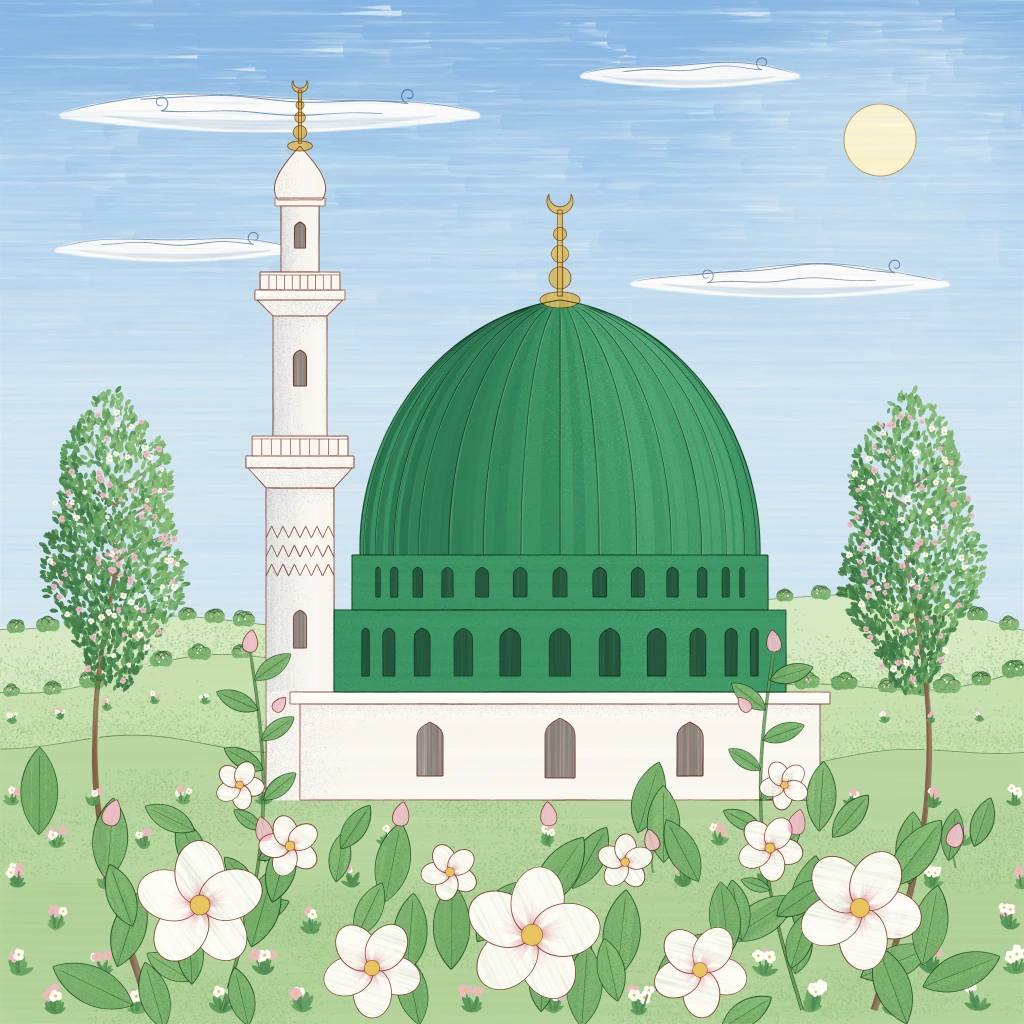
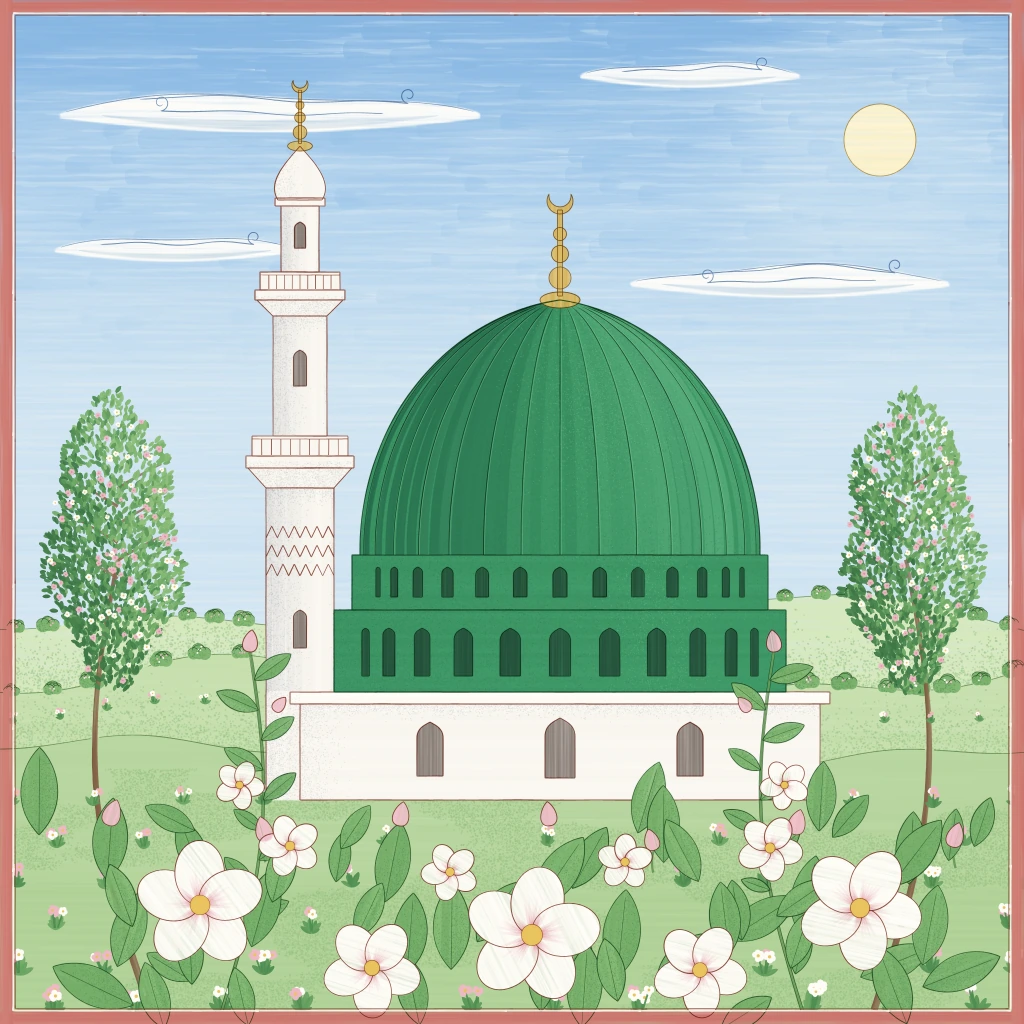
Atölye: altıncı tur ara kaydı
Claude-Session: https://claude.ai/code/session_01Q8CfoBGMPN7gfLWQYpMs1J

Changed region(s): [[0.0, 0.0, 1.0, 1.0], [0.375, 0.4688, 0.4062, 0.5312]]

diff --git a/atolye/stiller/S-203-ham-keten-ince-yagliboya/ornek.html b/atolye/stiller/S-203-ham-keten-ince-yagliboya/ornek.html
@@ -830,12 +830,12 @@ const M = (function () {
       for (let i = 0; i < 5; i++) {
         const a = c.aci + (i * Math.PI * 2) / 5, ux = Math.cos(a), uy = Math.sin(a);
         const isik = ux * 0.72 - uy * 0.7;
-        const col = isik > -0.3 ? C('#F7F4EC') : C('#DCDCDA');
-        for (const off of [-0.4, -0.14, 0.14, 0.4]) {
+        const col = isik > -0.3 ? C('#F7F4EC') : C('#D6D8DC');
+        for (const off of [-0.32, -0.1, 0.12, 0.32]) {
           const x0 = c.x + ux * c.r * 0.12, y0 = c.y + uy * c.r * 0.12;
           const uz = 1 - Math.abs(off) * 0.45;
-          const x1 = c.x + ux * c.r * uz + (-uy) * off * c.r * 0.95, y1 = c.y + uy * c.r * uz + ux * off * c.r * 0.95;
-          M.darbe(k, [[x0, y0], [(x0 * 0.45 + x1 * 0.55) + (-uy) * off * c.r * 0.12, (y0 * 0.45 + y1 * 0.55) + ux * off * c.r * 0.12], [x1, y1]], c.r * 0.33, col, kuru({ a: 1, govde: 0.85, kil: 5, kilK: 8, yuk: 0.8, uc: 'yuvarlak', r: R }));
+          const x1 = c.x + ux * c.r * uz + (-uy) * off * c.r * 0.82, y1 = c.y + uy * c.r * uz + ux * off * c.r * 0.82;
+          M.darbe(k, [[x0, y0], [(x0 * 0.45 + x1 * 0.55) + (-uy) * off * c.r * 0.12, (y0 * 0.45 + y1 * 0.55) + ux * off * c.r * 0.12], [x1, y1]], c.r * 0.29, col, kuru({ a: 1, govde: 0.85, kil: 5, kilK: 8, yuk: 0.8, uc: 'yuvarlak', r: R }));
         }
       }
     }

diff --git a/atolye/stiller/S-228-pahari-minyaturu/ornek.html b/atolye/stiller/S-228-pahari-minyaturu/ornek.html
@@ -1555,6 +1555,16 @@ for (const c of cicekler) {
   ortu(new Path2D(S.daireYolu(c.x, c.y, c.r * 0.16)));
   kc(S.daireYolu(c.x, c.y, c.r * 0.16), { w: 0.6, renk: 'rgba(150,100,40,0.9)' });
 }
+{
+  const cer = new Path2D();
+  cer.rect(-5, -5, 1034, 1034);
+  cer.rect(14, 14, 996, 996);
+  L.save();
+  L.globalCompositeOperation = 'destination-out';
+  L.fillStyle = '#000';
+  L.fill(cer, 'evenodd');
+  L.restore();
+}
 ctx.save();
 ctx.setTransform(1, 0, 0, 1, 0, 0);
 ctx.globalCompositeOperation = 'multiply';
